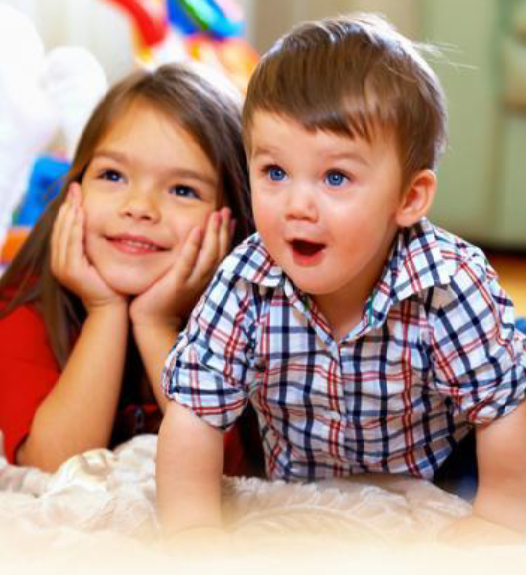
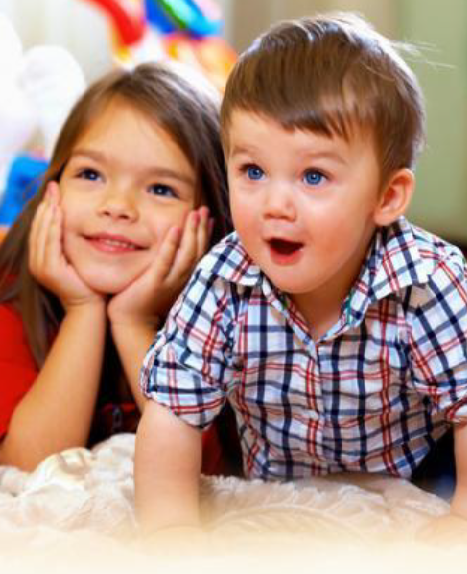
Responsive

diff --git a/css/style.css b/css/style.css
@@ -1,7 +1,25 @@
 body{
     background: linear-gradient(120deg, #ffcce6 , #ffe6f2 , #fff);
     margin:0;
+    font-family: 'Recursive', sans-serif;
+}
 
+.container {
+    display:grid;
+    grid-template-columns: 1fr 1fr;  
+}
+
+.right-section {
+    text-align: right;
+    margin-left: 120px ;  
+}
+
+.left-section {
+    padding: 60px 0 0 120px ;
+}
+
+.logo {
+    margin-bottom: 110px;
 }
 
 .text-div p:first-child {
@@ -25,42 +43,25 @@ body{
     margin: 0 0 10px 0 ;
 }
 
-.container {
-    display:grid;
-    grid-template-columns: 1fr 1fr;
-}
-
-.big-image {
-    height: 100vh ;
-    float: right;
-}
-
-.right-section {
-    padding: 60px 140px ;
-}
-
-.logo {
-    margin-bottom: 110px;
-}
-
 #discription {
     margin: 50px 0;
-    /* line-height: ; */
+}
+
+#banner-old { 
+    height: 100vh;   
 }
 
 form input , form button {
     border:0 ;
     height: 42px ;
     border-radius: 35px;
-    outline: none;
-    
+    outline: none;  
 }
 
 form input {
     width:80% ;
     border: 1px solid #666 ;
-    padding-left: 20px;
-    
+    padding-left: 20px;  
 }
 
 form button {
@@ -78,5 +79,74 @@ form button:hover {
 #error-image {
     margin-left: -100px;
     visibility: hidden;
+}
+
+#banner-new {
+    display: none;
+}
+
+#error-place {
+    margin: 3px auto;
+    text-align: center;
+    color: #ff0000;
+}
+
+/*----------------------------------------------------------------------------*/
+
+@media (max-width: 1170px) {
+    .left-section {
+        padding: 60px 0 0 60px ;
+    }
+
+    .right-section {
+        margin-left: 40px ;  
+    }
+
+    #banner-new {
+        display: none;
+    }
+}
+
+@media (max-width: 1030px) {
+    #banner-new {
+        content: url('../images/kids-mobile.png');
+        width: 100% ;
+        height: auto;
+    }
+
+    .container {
+        display: block ;
+    }
+
+    #banner-new {
+        display: block;
+        margin-bottom: 40px;
+    }
+
+    #banner-old {
+        display: none ;
+    }
+
+    .left-section {
+        padding: 30px 0 70px 0  ;
+    }
+    
+    .logo {
+        margin-bottom: 30px;
+        padding-left: 10% ;
+    }
+
+    .marg{
+        text-align: center; 
+    }
+
+    #discription {
+        padding: 0 20% ;
+    }
+
+    form {
+        width: 85%;
+        margin: 0 auto ;
+    }
 }
 

diff --git a/index.html b/index.html
@@ -5,42 +5,40 @@
   <meta name="viewport" content="width=device-width, initial-scale=1.0"> <!-- displays site properly based on user's device -->
 
   <link rel="icon" type="image/png" sizes="32x32" href="./images/favicon-32x32.png">
-  
   <title>Frontend Mentor | Base Apparel coming soon page</title>
-  <link rel="stylesheet" href="css/style.css">
-
-  <!-- Feel free to remove these styles or customise in your own stylesheet 👍 -->
-  <style>
-    .attribution { font-size: 11px; text-align: center; }
-    .attribution a { color: hsl(228, 45%, 44%); }
-  </style>
+  <link rel="stylesheet" href="css/style.css">  
 </head>
+
 <body>
   <div class="container">
-    <section class="right-section">
+    <section class="left-section">
+    
       <div class="logo">
         <img src="images/logo.svg" alt="logo">
       </div>
-      <div class="text-div">
+
+      <img  id="banner-new" src="images/kids.png" alt="avatar-picture">
+
+      <div class="text-div marg">
         <p class="text-elements">We're</p>
         <p class="text-elements">coming</p>
         <p class="text-elements">soon</p>
-
         <p id="discription">Hello fellow shoppers! We're currently building our new fashion store.Add your email below to stay up-to-date with announcements and our launch deals.</p>
+      </div>
 
-        <form>
+      <form class="marg">
+        <div>
           <input id="email" type="email" placeholder="Email Address">
           <span><img id= "error-image" src="images/icon-error.svg"></i></span>
-          <button id="button" type="submit"> > </button>
+          <button id="button" type=""> > </button>
           <p id="error-place"></p>
-        </form>
+        </div>
+      </form> 
           
-        
-      </div>    
     </section>
 
-    <section>
-      <img class="big-image" src="images/kids.png" alt="avatar-picture">
+    <section class="right-section">
+      <img  id="banner-old" src="images/kids.png" alt="avatar-picture">
     </section>
 
   </div>

diff --git a/js/script.js b/js/script.js
@@ -10,21 +10,21 @@ function check (){
     if ( !entered.value.match(emailFormat) || entered.value == "" ){
         entered.style.border= "1px solid #ff0000";
         errorImg.style.visibility = "visible";
-        errorPlace.innerHTML= "Please provide a valid email";
-        errorPlace.style.color = "#ff0000"; 
-
+        errorPlace.innerHTML= "Please provide a valid email"; 
     }else {
         entered.style.border= "none";
         errorImg.style.visibility = "hidden";
         errorPlace.innerHTML= "";
-
     };    
 };
 
 
 btn.addEventListener('click', function (event) {
+    event.preventDefault();
     check();  
 } );
+
+
 
 
 
